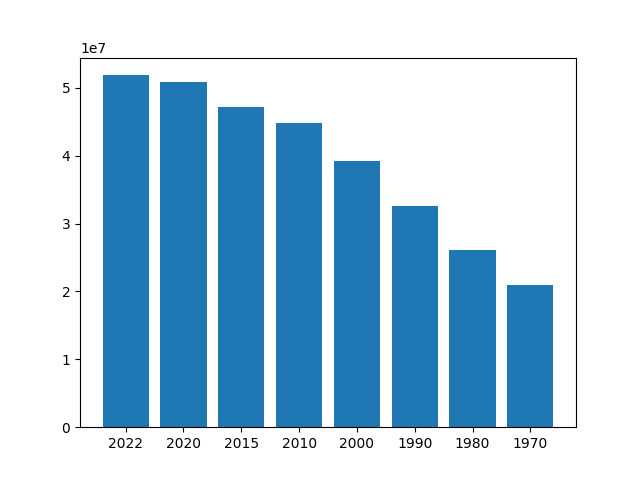
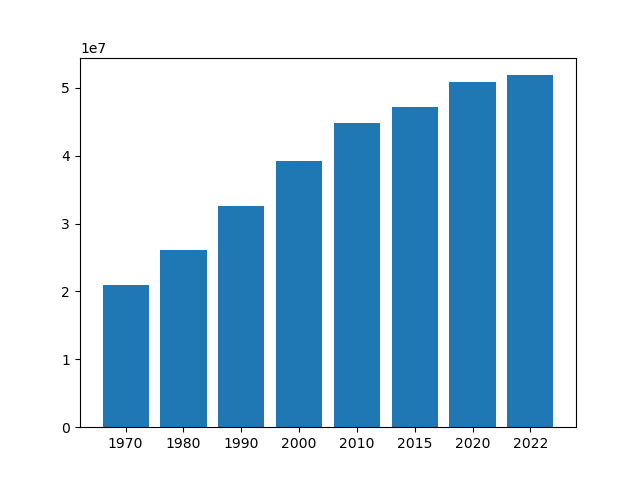
Repo finished

diff --git a/app/main.py b/app/main.py
@@ -3,24 +3,23 @@ import charts
 import pandas as pd
 
 def run():
-  data = pd.read_csv('data.csv')
-  data = data.to_dict(orient='records')
-  data = list(filter(lambda item : item['Continent'] == 'South America',data))
+    df = pd.read_csv('data.csv')
+    df_filtered = df[df['Continent'] == 'Africa']
 
-  countries = list(map(lambda x: x['Country'], data))
-  percentages = list(map(lambda x: x['World Population Percentage'], data))
-  charts.generate_pie_chart(countries, percentages)
+    countries = df_filtered['Country'].values
+    percentages = df_filtered['World Population Percentage'].values
+    charts.generate_pie_chart(countries, percentages)
 
-  country = input('Type Country => ')
-  print(country)
+    country = input('Type Country => ')
+    print(country)
 
-  result = utils.population_by_country(data, country)
+    result = utils.population_by_country(df, country)
 
-  if len(result) > 0:
-    country = result[0] 
-    print(country)   
-    labels, values = utils.get_population(country)
-    charts.generate_bar_chart(country['Country'], labels, values)
+    if not result.empty:
+        country_data = result.iloc[0]  # Use .iloc[0] to access the first row as a Series
+        print(country_data)
+        labels, values = utils.get_population(country_data)
+        charts.generate_bar_chart(country_data['Country'], labels, values)
 
 if __name__ == '__main__':
-  run()
+    run()

diff --git a/app/utils.py b/app/utils.py
@@ -1,13 +1,13 @@
 def get_population(country_dict):
   population_dict = {
-    '2022': int(country_dict['2022 Population']),
-    '2020': int(country_dict['2020 Population']),
-    '2015': int(country_dict['2015 Population']),
-    '2010': int(country_dict['2010 Population']),
-    '2000': int(country_dict['2000 Population']),
-    '1990': int(country_dict['1990 Population']),
+    '1970': int(country_dict['1970 Population']),
     '1980': int(country_dict['1980 Population']),
-    '1970': int(country_dict['1970 Population'])
+    '1990': int(country_dict['1990 Population']),
+    '2000': int(country_dict['2000 Population']),
+    '2010': int(country_dict['2010 Population']),
+    '2015': int(country_dict['2015 Population']),
+    '2020': int(country_dict['2020 Population']),
+    '2022': int(country_dict['2022 Population'])   
   }
   labels = population_dict.keys()
   values = population_dict.values()
@@ -15,5 +15,5 @@ def get_population(country_dict):
 
 
 def population_by_country(data, country):
-  result = list(filter(lambda item: item['Country'] == country, data))
-  return result
+    result = data[data['Country'] == country]
+    return result

diff --git a/web-server/main.py b/web-server/main.py
@@ -1,0 +1,24 @@
+import store
+from fastapi import FastAPI
+from fastapi.responses import HTMLResponse
+
+
+app = FastAPI()
+
+@app.get('/')
+def get_list():
+    return [1,2,3]
+
+@app.get('/contact', response_class=HTMLResponse)
+def get_list():
+    return """
+        <h1>Hello, I am a page</h1>
+        <p>And I am a parragraph</p>
+    """
+
+
+def run():
+    store.get_categories()
+
+if __name__ == '__main__':
+    run()

diff --git a/web-server/store.py b/web-server/store.py
@@ -1,0 +1,10 @@
+import requests
+
+def get_categories():
+    r = requests.get('https://api.escuelajs.co/api/v1/categories')
+    print(r.status_code)
+    print(r.text)
+    print(type(r.text))
+    categories = r.json()
+    for category in categories:
+        print(category['name'])

diff --git a/app/charts.py b/app/charts.py
@@ -10,7 +10,7 @@ def generate_pie_chart(labels, values):
   fig, ax = plt.subplots()
   ax.pie(values, labels=labels)
   ax.axis('equal')
-  plt.savefig('pie.png')
+  plt.savefig('chart_pie_final_este_si.png')
   plt.close()
 
 if __name__ == '__main__':

diff --git a/README.md b/README.md
@@ -1,16 +1,34 @@
-# Python PIP and Virtual Environments
+# Python PIP and Virtual Environments 🐍📦🔧
 
-# Game Project
+This document provides a guide on how to use essential tools and commands in Python for working with virtual environments and managing package dependencies efficiently.
+
+## 1. Project description 👇
+### _Creating and Activating Virtual Environments in Python 3._
+
+To avoid conflicts between different versions of packages in different projects, it is recommended to isolate each project in its own virtual environment. This allows installing the correct version of each package in each project without affecting others.
+
+
+When collaborating on Python projects that rely on specific versions of third-party packages, it is best practice to create a requirements.txt file listing all dependencies and their versions. The README should provide instructions for installing these dependencies using the following command:
+
+```sh
+pip install -r requirements.txt
+```
+_"The previous command is going to be mention further on-the-go"._
+
+## **2. Minimal Functional Products ⚙**
+
+### 2.1. Game Project: Rock, Paper and Scissors
 
 In order tu run the game, you must follow the instructions below, in the terminal:
-
 
 ```sh
 cd game
 python3 main.py
 ```
+![rock, paper, scissors](https://preview.redd.it/do-you-want-the-rock-paper-scissor-to-make-a-return-in-v0-e2q6a423xtua1.gif?width=320&auto=webp&s=a932c4a85b1167f4d661daf330e47f9ef2ff05a1)
+### Happy playing!
 
-# App Project
+### 2.2. App Project: World Population
 
 ```sh
 git clone
@@ -20,8 +38,10 @@ conda activate app_env
 pip install -r requirements.txt
 python3 main.py
 ```
+![world population](https://i.pinimg.com/originals/a9/4b/6e/a94b6e53b4f5718cb3a537101f660104.gif)
+### Happy research!
 
-## **2. Technology stack 💻**
+## **3. Technology stack 💻**
 
 ### Programming language:
 - [Python](https://docs.python.org/3/)
@@ -30,9 +50,56 @@ python3 main.py
 - [pandas](https://pandas.pydata.org/docs/reference/frame.html): For data manipulation and analysis.
 - [numpy](https://numpy.org/doc/stable/): For mathematical operations and array manipulation.
 - [matplotlib.pyplot](https://matplotlib.org/stable/contents.html): For data visualization.
+- [requests](https://requests.readthedocs.io/en/latest/): For making HTTP requests in Python.
+- [FastAPI](https://fastapi.tiangolo.com/advanced/custom-response/#html-response): For building APIs with Python based on standard Python type hints.
 
 #### Distribution platform
 - [Anaconda](https://www.anaconda.com/)
 
-#### Computing environment
-- [Jupyter Notebooks](https://jupyter.org/)
+### Development tools: 
+- [VSC](https://code.visualstudio.com/)
+
+### Development environtments:
+- [Windows Subsystem for Linux(WSL) - Ubuntu](https://learn.microsoft.com/en-us/windows/wsl/install)
+- [Docker](https://docs.docker.com/)
+
+## **4. Essential Commands in Anaconda PowerShell Prompt 📋**
+
+### conda create --name [virtual environment]
+This command creates a virtual environment at the specified path.
+
+Working  with virtual environments in Python 3, is essential for isolating and encapsulating projects and their third-party packages, ensuring that **dependencies of one project do not interfere with those of another,** even when using the same Python version and operating system.
+
+### pip (Preferred Installer Program)
+The pip tool is used to install Python packages as dependencies in our projects. It simplifies the management of additional libraries and modules required for development.
+
+### conda activate [virtual environment]
+This command activates the virtual environment, allowing the use of dependencies installed within it.
+
+### Managing Dependencies
+Installing all packages from a requirements.txt file:
+
+```sh
+pip3 install -r requirements.txt
+```
+This command installs all packages listed in the requirements.txt file, along with their specific versions.
+
+```sh
+pip list > requirements.txt
+```
+Saving installed packages and their versions to a requirements.txt file.
+
+This command saves the names and versions of all third-party packages installed in the current environment to the requirements.txt file.
+
+**Note:** requirements.txt should be different for every specific project folder (if we think in Github Repo). This ensures that all team members install exactly the same versions of the required packages for every project.
+
+### Installing Specific Packages
+Installing a specific version of a package. **Example:**
+
+```sh
+pip install requests==2.27.1
+```
+This command installs version 2.27.1 of the requests package.
+
+###  **Contact info📧**
+For further information, reach me at andres.buelvas.diago.01@gmail.com
